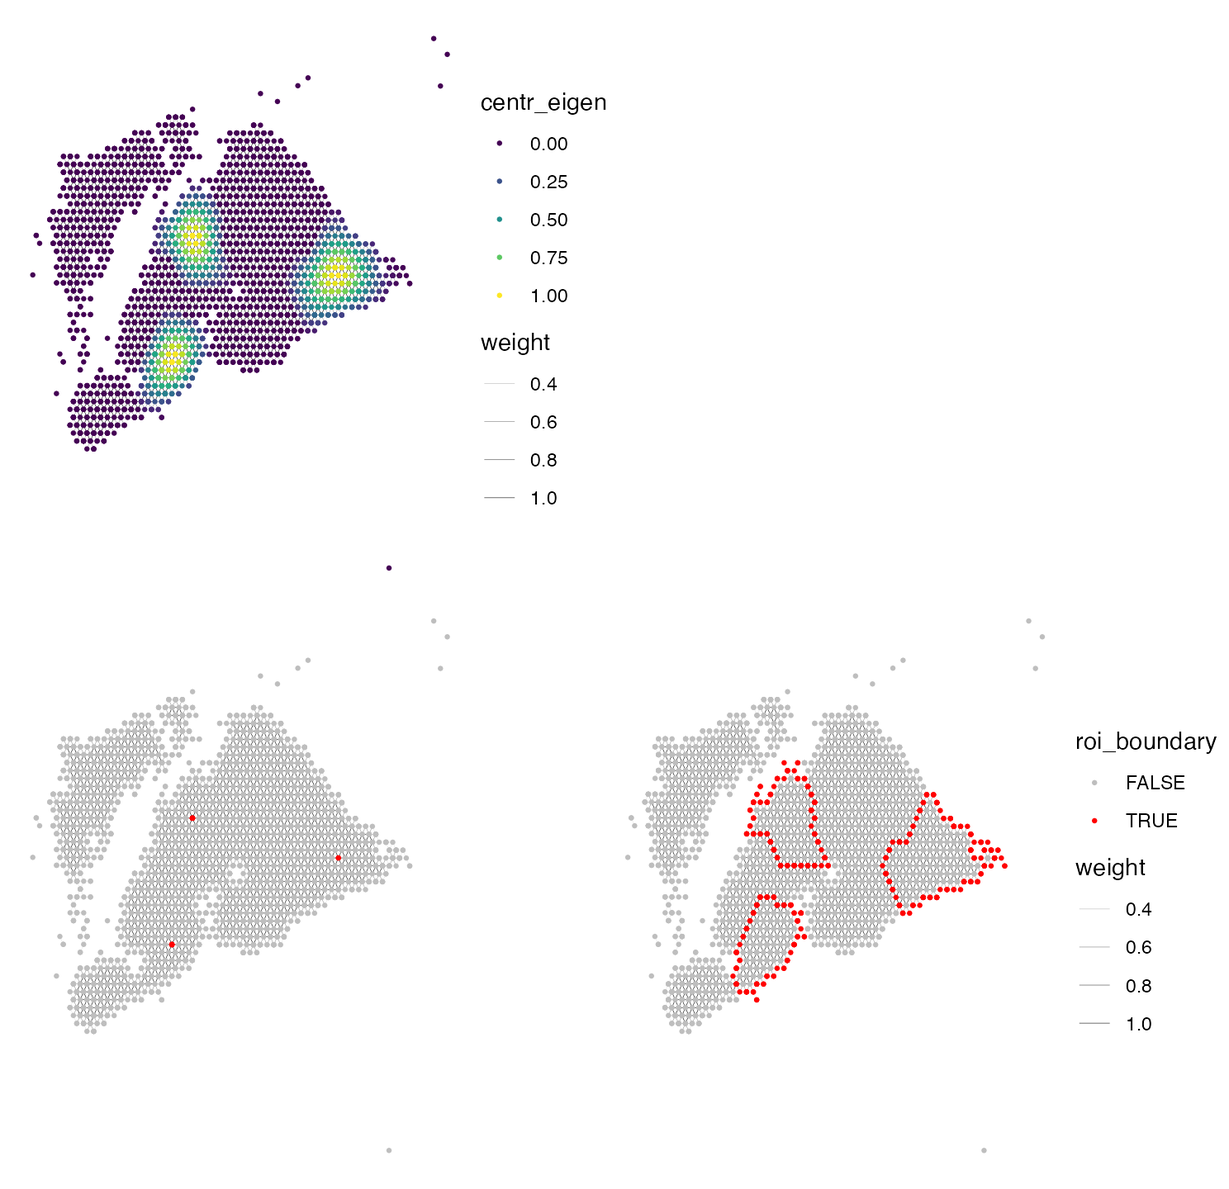
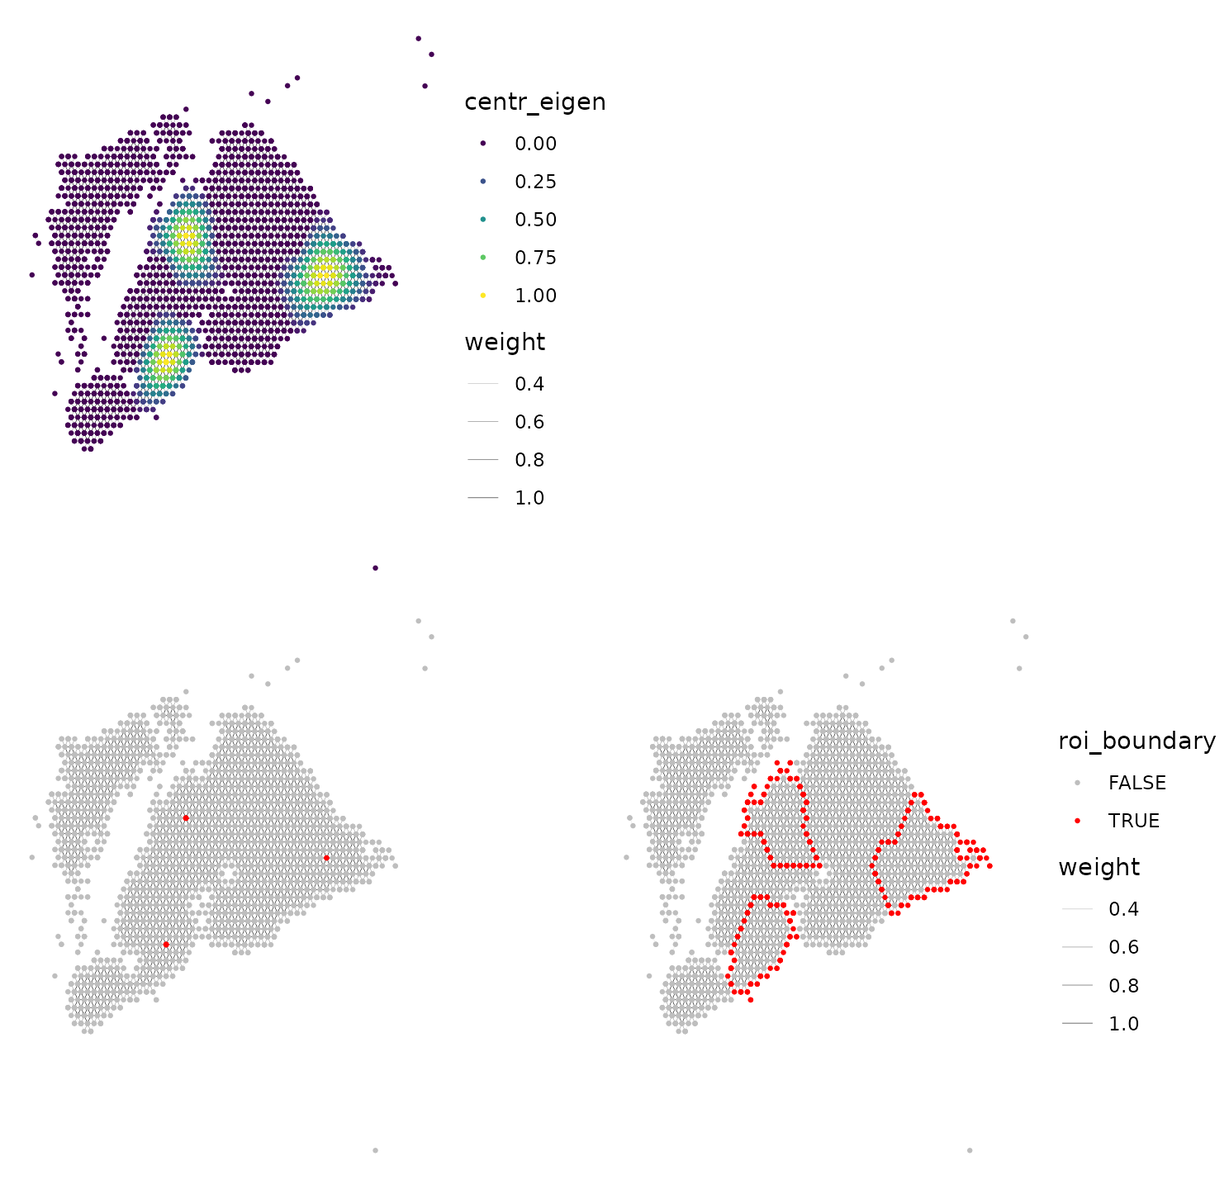
Deploying to gh-pages from @ Sanin-Lab/SpotGraphs@b2a84de1532673c6615d4f2f1becfc085dabf9ee 🚀

diff --git a/articles/ThresholdTests.html b/articles/ThresholdTests.html
@@ -36,7 +36,7 @@
       <ul class="navbar-nav me-auto">
 <li class="nav-item"><a class="nav-link" href="../articles/SpotGraphs.html">Get started</a></li>
 <li class="nav-item"><a class="nav-link" href="../reference/index.html">Reference</a></li>
-<li class="nav-item dropdown">
+<li class="active nav-item dropdown">
   <button class="nav-link dropdown-toggle" type="button" id="dropdown-articles" data-bs-toggle="dropdown" aria-expanded="false" aria-haspopup="true">Articles</button>
   <ul class="dropdown-menu" aria-labelledby="dropdown-articles">
 <li><a class="dropdown-item" href="../articles/NeighborhoodCenters.html">Identify centers or boundaries of some region of interest</a></li>
@@ -287,6 +287,64 @@ distributions<a class="anchor" aria-label="anchor" href="#load-several-datasets-
 <span></span>
 <span><span class="fu"><a href="https://patchwork.data-imaginist.com/reference/wrap_plots.html" class="external-link">wrap_plots</a></span><span class="op">(</span><span class="va">plt.thresholds</span>, ncol <span class="op">=</span> <span class="fl">1</span><span class="op">)</span></span></code></pre></div>
 <p><img src="ThresholdTests_files/figure-html/unnamed-chunk-3-1.png" width="768"></p>
+</div>
+<div class="section level3">
+<h3 id="use-eccentricity-to-determine-which-spots-should-be-filtered-out">Use eccentricity to determine which spots should be filtered
+out<a class="anchor" aria-label="anchor" href="#use-eccentricity-to-determine-which-spots-should-be-filtered-out"></a>
+</h3>
+<p>eccentricity = the max distance between one spot and all other
+spots</p>
+<div class="sourceCode" id="cb9"><pre class="downlit sourceCode r">
+<code class="sourceCode R"><span><span class="co"># Create igraph objects for each SPE object</span></span>
+<span><span class="va">ig.ls</span> <span class="op">=</span> <span class="fu"><a href="https://rdrr.io/r/base/lapply.html" class="external-link">lapply</a></span><span class="op">(</span><span class="va">spe.ls</span>, <span class="kw">function</span><span class="op">(</span><span class="va">spe</span><span class="op">)</span> <span class="op">{</span></span>
+<span>  <span class="va">coord</span> <span class="op">=</span> <span class="fu">SpatialExperiment</span><span class="fu">::</span><span class="fu"><a href="https://rdrr.io/pkg/SpatialExperiment/man/SpatialExperiment-methods.html" class="external-link">spatialCoords</a></span><span class="op">(</span><span class="va">spe</span><span class="op">)</span> <span class="op"><a href="../reference/pipe.html">%&gt;%</a></span> <span class="fu"><a href="https://rdrr.io/r/base/as.data.frame.html" class="external-link">as.data.frame</a></span><span class="op">(</span><span class="op">)</span></span>
+<span>  <span class="fu"><a href="https://rdrr.io/r/base/colnames.html" class="external-link">colnames</a></span><span class="op">(</span><span class="va">coord</span><span class="op">)</span> <span class="op">=</span> <span class="fu"><a href="https://rdrr.io/r/base/c.html" class="external-link">c</a></span><span class="op">(</span><span class="st">'x'</span>, <span class="st">'y'</span><span class="op">)</span></span>
+<span>  <span class="fu"><a href="../reference/SpotGraph.html">SpotGraph</a></span><span class="op">(</span>coord <span class="op">=</span> <span class="va">coord</span><span class="op">)</span></span>
+<span><span class="op">}</span><span class="op">)</span></span>
+<span></span>
+<span><span class="co"># Calculate eccentricity of all points on each slide</span></span>
+<span><span class="kw">for</span> <span class="op">(</span><span class="va">id</span> <span class="kw">in</span> <span class="fu"><a href="https://rdrr.io/r/base/names.html" class="external-link">names</a></span><span class="op">(</span><span class="va">ig.ls</span><span class="op">)</span><span class="op">)</span> <span class="op">{</span></span>
+<span>  <span class="fu">igraph</span><span class="fu">::</span><span class="fu"><a href="https://r.igraph.org/reference/V.html" class="external-link">V</a></span><span class="op">(</span><span class="va">ig.ls</span><span class="op">[[</span><span class="va">id</span><span class="op">]</span><span class="op">]</span><span class="op">)</span><span class="op">$</span><span class="va">ecc</span> <span class="op">=</span> <span class="fu">igraph</span><span class="fu">::</span><span class="fu"><a href="https://r.igraph.org/reference/eccentricity.html" class="external-link">eccentricity</a></span><span class="op">(</span><span class="va">ig.ls</span><span class="op">[[</span><span class="va">id</span><span class="op">]</span><span class="op">]</span>, weights <span class="op">=</span> <span class="cn">NA</span><span class="op">)</span></span>
+<span><span class="op">}</span></span>
+<span></span>
+<span><span class="co"># Plot eccentricity</span></span>
+<span><span class="va">plt.ecc</span> <span class="op">=</span> <span class="fu"><a href="https://rdrr.io/r/base/lapply.html" class="external-link">lapply</a></span><span class="op">(</span><span class="fu"><a href="https://rdrr.io/r/base/names.html" class="external-link">names</a></span><span class="op">(</span><span class="va">ig.ls</span><span class="op">)</span>, <span class="kw">function</span><span class="op">(</span><span class="va">id</span><span class="op">)</span> <span class="op">{</span></span>
+<span>  <span class="fu"><a href="../reference/SpatialPlotGraph.html">SpatialPlotGraph</a></span><span class="op">(</span><span class="va">ig.ls</span><span class="op">[[</span><span class="va">id</span><span class="op">]</span><span class="op">]</span>, group.by <span class="op">=</span> <span class="st">'ecc'</span><span class="op">)</span> <span class="op">+</span></span>
+<span>    <span class="fu"><a href="https://sjmgarnier.github.io/viridis/reference/scale_viridis.html" class="external-link">scale_color_viridis</a></span><span class="op">(</span><span class="op">)</span> <span class="op">+</span></span>
+<span>    <span class="fu"><a href="https://ggplot2.tidyverse.org/reference/labs.html" class="external-link">ggtitle</a></span><span class="op">(</span><span class="va">id</span><span class="op">)</span> <span class="op">+</span></span>
+<span>    <span class="fu"><a href="https://ggplot2.tidyverse.org/reference/guides.html" class="external-link">guides</a></span><span class="op">(</span>alpha <span class="op">=</span> <span class="fu"><a href="https://ggplot2.tidyverse.org/reference/guide_none.html" class="external-link">guide_none</a></span><span class="op">(</span><span class="op">)</span>,</span>
+<span>           color <span class="op">=</span> <span class="fu"><a href="https://ggplot2.tidyverse.org/reference/guide_colourbar.html" class="external-link">guide_colorbar</a></span><span class="op">(</span>title <span class="op">=</span> <span class="st">'ecc'</span><span class="op">)</span><span class="op">)</span> <span class="op">+</span></span>
+<span>    <span class="fu"><a href="https://ggplot2.tidyverse.org/reference/ggtheme.html" class="external-link">theme_void</a></span><span class="op">(</span><span class="op">)</span> <span class="op">+</span></span>
+<span>    <span class="fu"><a href="https://ggplot2.tidyverse.org/reference/theme.html" class="external-link">theme</a></span><span class="op">(</span>plot.title <span class="op">=</span> <span class="fu"><a href="https://ggplot2.tidyverse.org/reference/element.html" class="external-link">element_text</a></span><span class="op">(</span>hjust <span class="op">=</span> <span class="fl">0.5</span>, face <span class="op">=</span> <span class="st">'bold'</span><span class="op">)</span><span class="op">)</span></span>
+<span><span class="op">}</span><span class="op">)</span></span>
+<span><span class="fu"><a href="https://patchwork.data-imaginist.com/reference/wrap_plots.html" class="external-link">wrap_plots</a></span><span class="op">(</span><span class="va">plt.ecc</span>, ncol <span class="op">=</span> <span class="fl">2</span><span class="op">)</span></span></code></pre></div>
+<p><img src="ThresholdTests_files/figure-html/eccentricity-1.png" width="768"></p>
+<div class="sourceCode" id="cb10"><pre class="downlit sourceCode r">
+<code class="sourceCode R"><span><span class="va">plt.eccthres</span> <span class="op">=</span> <span class="fu"><a href="https://rdrr.io/r/base/lapply.html" class="external-link">lapply</a></span><span class="op">(</span><span class="fu"><a href="https://rdrr.io/r/base/names.html" class="external-link">names</a></span><span class="op">(</span><span class="va">ig.ls</span><span class="op">)</span>, <span class="kw">function</span><span class="op">(</span><span class="va">id</span><span class="op">)</span> <span class="op">{</span></span>
+<span>  <span class="va">ig</span> <span class="op">=</span> <span class="va">ig.ls</span><span class="op">[[</span><span class="va">id</span><span class="op">]</span><span class="op">]</span></span>
+<span>  <span class="va">thres</span> <span class="op">=</span> <span class="fl">5</span></span>
+<span>  <span class="fu">igraph</span><span class="fu">::</span><span class="fu"><a href="https://r.igraph.org/reference/V.html" class="external-link">V</a></span><span class="op">(</span><span class="va">ig</span><span class="op">)</span><span class="op">$</span><span class="va">ecc_thres</span> <span class="op">=</span> <span class="fu"><a href="https://rdrr.io/r/base/ifelse.html" class="external-link">ifelse</a></span><span class="op">(</span><span class="fu">igraph</span><span class="fu">::</span><span class="fu"><a href="https://r.igraph.org/reference/V.html" class="external-link">V</a></span><span class="op">(</span><span class="va">ig</span><span class="op">)</span><span class="op">$</span><span class="va">ecc</span> <span class="op">&gt;</span> <span class="va">thres</span>, <span class="st">'pass'</span>, <span class="st">'nopass'</span><span class="op">)</span> <span class="op"><a href="../reference/pipe.html">%&gt;%</a></span> </span>
+<span>    <span class="fu"><a href="https://rdrr.io/r/base/factor.html" class="external-link">factor</a></span><span class="op">(</span>levels <span class="op">=</span> <span class="fu"><a href="https://rdrr.io/r/base/c.html" class="external-link">c</a></span><span class="op">(</span><span class="st">'nopass'</span>, <span class="st">'pass'</span><span class="op">)</span><span class="op">)</span></span>
+<span>  </span>
+<span>  <span class="va">spe</span> <span class="op">=</span> <span class="va">spe.ls</span><span class="op">[[</span><span class="va">id</span><span class="op">]</span><span class="op">]</span></span>
+<span>  <span class="va">spe</span><span class="op">$</span><span class="va">ecc_thres</span> <span class="op">=</span> <span class="fu">igraph</span><span class="fu">::</span><span class="fu"><a href="https://r.igraph.org/reference/V.html" class="external-link">V</a></span><span class="op">(</span><span class="va">ig</span><span class="op">)</span><span class="op">$</span><span class="va">ecc_thres</span></span>
+<span>  </span>
+<span>  <span class="fu">ImageFeature</span><span class="op">(</span><span class="va">spe</span>, feature <span class="op">=</span> <span class="st">'ecc_thres'</span><span class="op">)</span> <span class="op">+</span></span>
+<span>    <span class="fu"><a href="https://ggplot2.tidyverse.org/reference/scale_manual.html" class="external-link">scale_color_manual</a></span><span class="op">(</span>values <span class="op">=</span> <span class="fu"><a href="https://rdrr.io/r/base/c.html" class="external-link">c</a></span><span class="op">(</span><span class="st">'red'</span>, <span class="st">'grey'</span><span class="op">)</span>, drop <span class="op">=</span> <span class="cn">F</span><span class="op">)</span> <span class="op">+</span></span>
+<span>    <span class="fu"><a href="https://ggplot2.tidyverse.org/reference/labs.html" class="external-link">ggtitle</a></span><span class="op">(</span><span class="va">id</span><span class="op">)</span> <span class="op">+</span></span>
+<span>    <span class="fu"><a href="https://ggplot2.tidyverse.org/reference/theme.html" class="external-link">theme</a></span><span class="op">(</span>plot.title <span class="op">=</span> <span class="fu"><a href="https://ggplot2.tidyverse.org/reference/element.html" class="external-link">element_text</a></span><span class="op">(</span>hjust <span class="op">=</span> <span class="fl">0.5</span>, face <span class="op">=</span> <span class="st">'bold'</span><span class="op">)</span>,</span>
+<span>          legend.position <span class="op">=</span> <span class="st">'none'</span>, </span>
+<span>          plot.margin <span class="op">=</span> <span class="fu"><a href="https://ggplot2.tidyverse.org/reference/element.html" class="external-link">margin</a></span><span class="op">(</span><span class="fu"><a href="https://rdrr.io/r/base/rep.html" class="external-link">rep</a></span><span class="op">(</span><span class="fl">0.75</span>,<span class="fl">4</span><span class="op">)</span>,<span class="st">'cm'</span><span class="op">)</span><span class="op">)</span></span>
+<span><span class="op">}</span><span class="op">)</span></span>
+<span><span class="co">#&gt; Warning in unit(c(t, r, b, l), unit): NAs introduced by coercion</span></span>
+<span><span class="co">#&gt; Warning in unit(c(t, r, b, l), unit): NAs introduced by coercion</span></span>
+<span><span class="co">#&gt; Warning in unit(c(t, r, b, l), unit): NAs introduced by coercion</span></span>
+<span><span class="co">#&gt; Warning in unit(c(t, r, b, l), unit): NAs introduced by coercion</span></span>
+<span><span class="co">#&gt; Warning in unit(c(t, r, b, l), unit): NAs introduced by coercion</span></span>
+<span><span class="co">#&gt; Warning in unit(c(t, r, b, l), unit): NAs introduced by coercion</span></span>
+<span></span>
+<span><span class="fu"><a href="https://patchwork.data-imaginist.com/reference/wrap_plots.html" class="external-link">wrap_plots</a></span><span class="op">(</span><span class="va">plt.eccthres</span>, ncol <span class="op">=</span> <span class="fl">2</span><span class="op">)</span></span></code></pre></div>
+<p><img src="ThresholdTests_files/figure-html/plot%20eccentricity%20threshold-1.png" width="768"></p>
 </div>
 </div>
   </main><aside class="col-md-3"><nav id="toc" aria-label="Table of contents"><h2>On this page</h2>

diff --git a/reference/SpotGraph.html b/reference/SpotGraph.html
@@ -87,17 +87,17 @@ immediately adjacent to each other.</p>
 <span class="r-in"><span><span class="fu"><a href="https://rdrr.io/r/base/colnames.html" class="external-link">colnames</a></span><span class="op">(</span><span class="va">df</span><span class="op">)</span> <span class="op">=</span> <span class="fu"><a href="https://rdrr.io/r/base/c.html" class="external-link">c</a></span><span class="op">(</span><span class="st">'x'</span>, <span class="st">'y'</span><span class="op">)</span></span></span>
 <span class="r-in"><span></span></span>
 <span class="r-in"><span><span class="co"># Preview the points on a grid with their corresponding x,y coordinates</span></span></span>
-<span class="r-in"><span><span class="fu"><a href="https://ggplot2.tidyverse.org/reference/ggplot.html" class="external-link">ggplot</a></span><span class="op">(</span><span class="va">df</span>, <span class="fu"><a href="https://ggplot2.tidyverse.org/reference/aes.html" class="external-link">aes</a></span><span class="op">(</span>x <span class="op">=</span> <span class="va">x</span>,y<span class="op">=</span><span class="va">y</span><span class="op">)</span><span class="op">)</span> <span class="op">+</span></span></span>
-<span class="r-in"><span>  <span class="fu"><a href="https://ggplot2.tidyverse.org/reference/geom_point.html" class="external-link">geom_point</a></span><span class="op">(</span><span class="op">)</span></span></span>
+<span class="r-in"><span><span class="fu">ggplot</span><span class="op">(</span><span class="va">df</span>, <span class="fu">aes</span><span class="op">(</span>x <span class="op">=</span> <span class="va">x</span>,y<span class="op">=</span><span class="va">y</span><span class="op">)</span><span class="op">)</span> <span class="op">+</span></span></span>
+<span class="r-in"><span>  <span class="fu">geom_point</span><span class="op">(</span><span class="op">)</span></span></span>
 <span class="r-in"><span></span></span>
 <span class="r-in"><span><span class="co"># Identify points that are immediately adjacent to each other and create an igraph object</span></span></span>
 <span class="r-in"><span><span class="va">ig</span> <span class="op">=</span> <span class="fu">SpotGraph</span><span class="op">(</span><span class="va">df</span><span class="op">)</span></span></span>
 <span class="r-in"><span></span></span>
 <span class="r-in"><span><span class="co"># Optionally view the network with ggnetwork</span></span></span>
 <span class="r-in"><span><span class="co"># library(ggnetwork)</span></span></span>
-<span class="r-in"><span><span class="fu"><a href="https://ggplot2.tidyverse.org/reference/ggplot.html" class="external-link">ggplot</a></span><span class="op">(</span><span class="va">ig</span>, <span class="fu"><a href="https://ggplot2.tidyverse.org/reference/aes.html" class="external-link">aes</a></span><span class="op">(</span>x<span class="op">=</span><span class="va">x</span>, y<span class="op">=</span><span class="va">y</span>, xend<span class="op">=</span><span class="va">xend</span>, yend<span class="op">=</span><span class="va">yend</span><span class="op">)</span><span class="op">)</span> <span class="op">+</span></span></span>
-<span class="r-in"><span>  <span class="fu"><a href="https://rdrr.io/pkg/ggnetwork/man/geom_edges.html" class="external-link">geom_edges</a></span><span class="op">(</span><span class="op">)</span> <span class="op">+</span></span></span>
-<span class="r-in"><span>  <span class="fu"><a href="https://rdrr.io/pkg/ggnetwork/man/geom_nodes.html" class="external-link">geom_nodes</a></span><span class="op">(</span><span class="op">)</span></span></span>
+<span class="r-in"><span><span class="fu">ggplot</span><span class="op">(</span><span class="va">ig</span>, <span class="fu">aes</span><span class="op">(</span>x<span class="op">=</span><span class="va">x</span>, y<span class="op">=</span><span class="va">y</span>, xend<span class="op">=</span><span class="va">xend</span>, yend<span class="op">=</span><span class="va">yend</span><span class="op">)</span><span class="op">)</span> <span class="op">+</span></span></span>
+<span class="r-in"><span>  <span class="fu">geom_edges</span><span class="op">(</span><span class="op">)</span> <span class="op">+</span></span></span>
+<span class="r-in"><span>  <span class="fu">geom_nodes</span><span class="op">(</span><span class="op">)</span></span></span>
 <span class="r-in"><span><span class="op">}</span> <span class="co"># }</span></span></span>
 </code></pre></div>
     </div>

diff --git a/articles/NeighborhoodCenters.html b/articles/NeighborhoodCenters.html
@@ -36,7 +36,7 @@
       <ul class="navbar-nav me-auto">
 <li class="nav-item"><a class="nav-link" href="../articles/SpotGraphs.html">Get started</a></li>
 <li class="nav-item"><a class="nav-link" href="../reference/index.html">Reference</a></li>
-<li class="nav-item dropdown">
+<li class="active nav-item dropdown">
   <button class="nav-link dropdown-toggle" type="button" id="dropdown-articles" data-bs-toggle="dropdown" aria-expanded="false" aria-haspopup="true">Articles</button>
   <ul class="dropdown-menu" aria-labelledby="dropdown-articles">
 <li><a class="dropdown-item" href="../articles/NeighborhoodCenters.html">Identify centers or boundaries of some region of interest</a></li>
@@ -165,12 +165,12 @@ where <code>is_neighborhood == T</code>, and 0 where
 <div class="section level2">
 <h2 id="select-multiple-regions-of-interest">4. Select multiple regions of interest<a class="anchor" aria-label="anchor" href="#select-multiple-regions-of-interest"></a>
 </h2>
-<p>The <code><a href="../reference/NeighborhoodCenters.html">NeighborhoodCenters()</a></code> function is not limited to
-identifying characteristics of a single region. Users can provide a
-named boolean vector labeling multiple regions. An example of a common
-use case for this is when there are several tumor regions within the
-same tissue section. Here, we instead select two different clusters as
-regions of interest, instead of just one.</p>
+<p>The <code><a href="../reference/NeighborhoodCenters.html">NeighborhoodCenters()</a></code> function can also identify
+characteristics of multiple regions by providing a named boolean vector
+indicating whether a spot is within any of these regions. This can be
+useful when there are several tumor regions within the same tissue
+section. Here, we select three different clusters as regions of
+interest, instead of just one.</p>
 <div class="sourceCode" id="cb6"><pre class="downlit sourceCode r">
 <code class="sourceCode R"><span><span class="va">roi</span> <span class="op">=</span> <span class="va">cl</span> <span class="op"><a href="https://rdrr.io/r/base/match.html" class="external-link">%in%</a></span> <span class="fu"><a href="https://rdrr.io/r/base/c.html" class="external-link">c</a></span><span class="op">(</span><span class="st">'1'</span>, <span class="st">'2'</span>, <span class="st">'5'</span><span class="op">)</span></span>
 <span><span class="fu"><a href="https://rdrr.io/r/base/names.html" class="external-link">names</a></span><span class="op">(</span><span class="va">roi</span><span class="op">)</span> <span class="op">=</span> <span class="fu"><a href="https://rdrr.io/r/base/names.html" class="external-link">names</a></span><span class="op">(</span><span class="fu">igraph</span><span class="fu">::</span><span class="fu"><a href="https://r.igraph.org/reference/V.html" class="external-link">V</a></span><span class="op">(</span><span class="va">ig</span><span class="op">)</span><span class="op">)</span></span>

diff --git a/articles/SpotGraphs.html b/articles/SpotGraphs.html
@@ -34,7 +34,7 @@
 
     <div id="navbar" class="collapse navbar-collapse ms-3">
       <ul class="navbar-nav me-auto">
-<li class="nav-item"><a class="nav-link" href="../articles/SpotGraphs.html">Get started</a></li>
+<li class="active nav-item"><a class="nav-link" href="../articles/SpotGraphs.html">Get started</a></li>
 <li class="nav-item"><a class="nav-link" href="../reference/index.html">Reference</a></li>
 <li class="nav-item dropdown">
   <button class="nav-link dropdown-toggle" type="button" id="dropdown-articles" data-bs-toggle="dropdown" aria-expanded="false" aria-haspopup="true">Articles</button>
@@ -124,10 +124,10 @@ the spots on our slide.</p>
 <span></span>
 <span><span class="va">ig</span> <span class="op">=</span> <span class="fu"><a href="../reference/SpotGraph.html">SpotGraph</a></span><span class="op">(</span>coord <span class="op">=</span> <span class="va">coord</span><span class="op">)</span></span>
 <span><span class="va">ig</span></span>
-<span><span class="co">#&gt; IGRAPH b35b64e UNW- 1185 3189 -- </span></span>
+<span><span class="co">#&gt; IGRAPH c46c817 UNW- 1185 3189 -- </span></span>
 <span><span class="co">#&gt; + attr: name (v/c), coord_x (v/n), coord_y (v/n), is_boundary (v/l),</span></span>
 <span><span class="co">#&gt; | weight (e/n)</span></span>
-<span><span class="co">#&gt; + edges from b35b64e (vertex names):</span></span>
+<span><span class="co">#&gt; + edges from c46c817 (vertex names):</span></span>
 <span><span class="co">#&gt;  [1] AAACACCAATAACTGC-1--AGGCGGTTTGTCCCGC-1</span></span>
 <span><span class="co">#&gt;  [2] AAACACCAATAACTGC-1--CTCGTCGAGGGCTCAT-1</span></span>
 <span><span class="co">#&gt;  [3] AAACACCAATAACTGC-1--GAAACATAGGAAACAG-1</span></span>

diff --git a/articles/QuickStart.html b/articles/QuickStart.html
@@ -36,7 +36,7 @@
       <ul class="navbar-nav me-auto">
 <li class="nav-item"><a class="nav-link" href="../articles/SpotGraphs.html">Get started</a></li>
 <li class="nav-item"><a class="nav-link" href="../reference/index.html">Reference</a></li>
-<li class="nav-item dropdown">
+<li class="active nav-item dropdown">
   <button class="nav-link dropdown-toggle" type="button" id="dropdown-articles" data-bs-toggle="dropdown" aria-expanded="false" aria-haspopup="true">Articles</button>
   <ul class="dropdown-menu" aria-labelledby="dropdown-articles">
 <li><a class="dropdown-item" href="../articles/NeighborhoodCenters.html">Identify centers or boundaries of some region of interest</a></li>

diff --git a/reference/SpatialPlotGraph.html b/reference/SpatialPlotGraph.html
@@ -85,7 +85,7 @@ present in <code>vertex_attr(ig)</code>.</p></dd>
 
 
 <dt id="arg-pt-size">pt.size<a class="anchor" aria-label="anchor" href="#arg-pt-size"></a></dt>
-<dd><p>Numeric input to determine size of each point on the plot. Used as the size parameter in <code><a href="https://ggplot2.tidyverse.org/reference/geom_point.html" class="external-link">geom_point()</a></code>.</p></dd>
+<dd><p>Numeric input to determine size of each point on the plot. Used as the size parameter in <code>geom_point()</code>.</p></dd>
 
 </dl></div>
     <div class="section level2">
